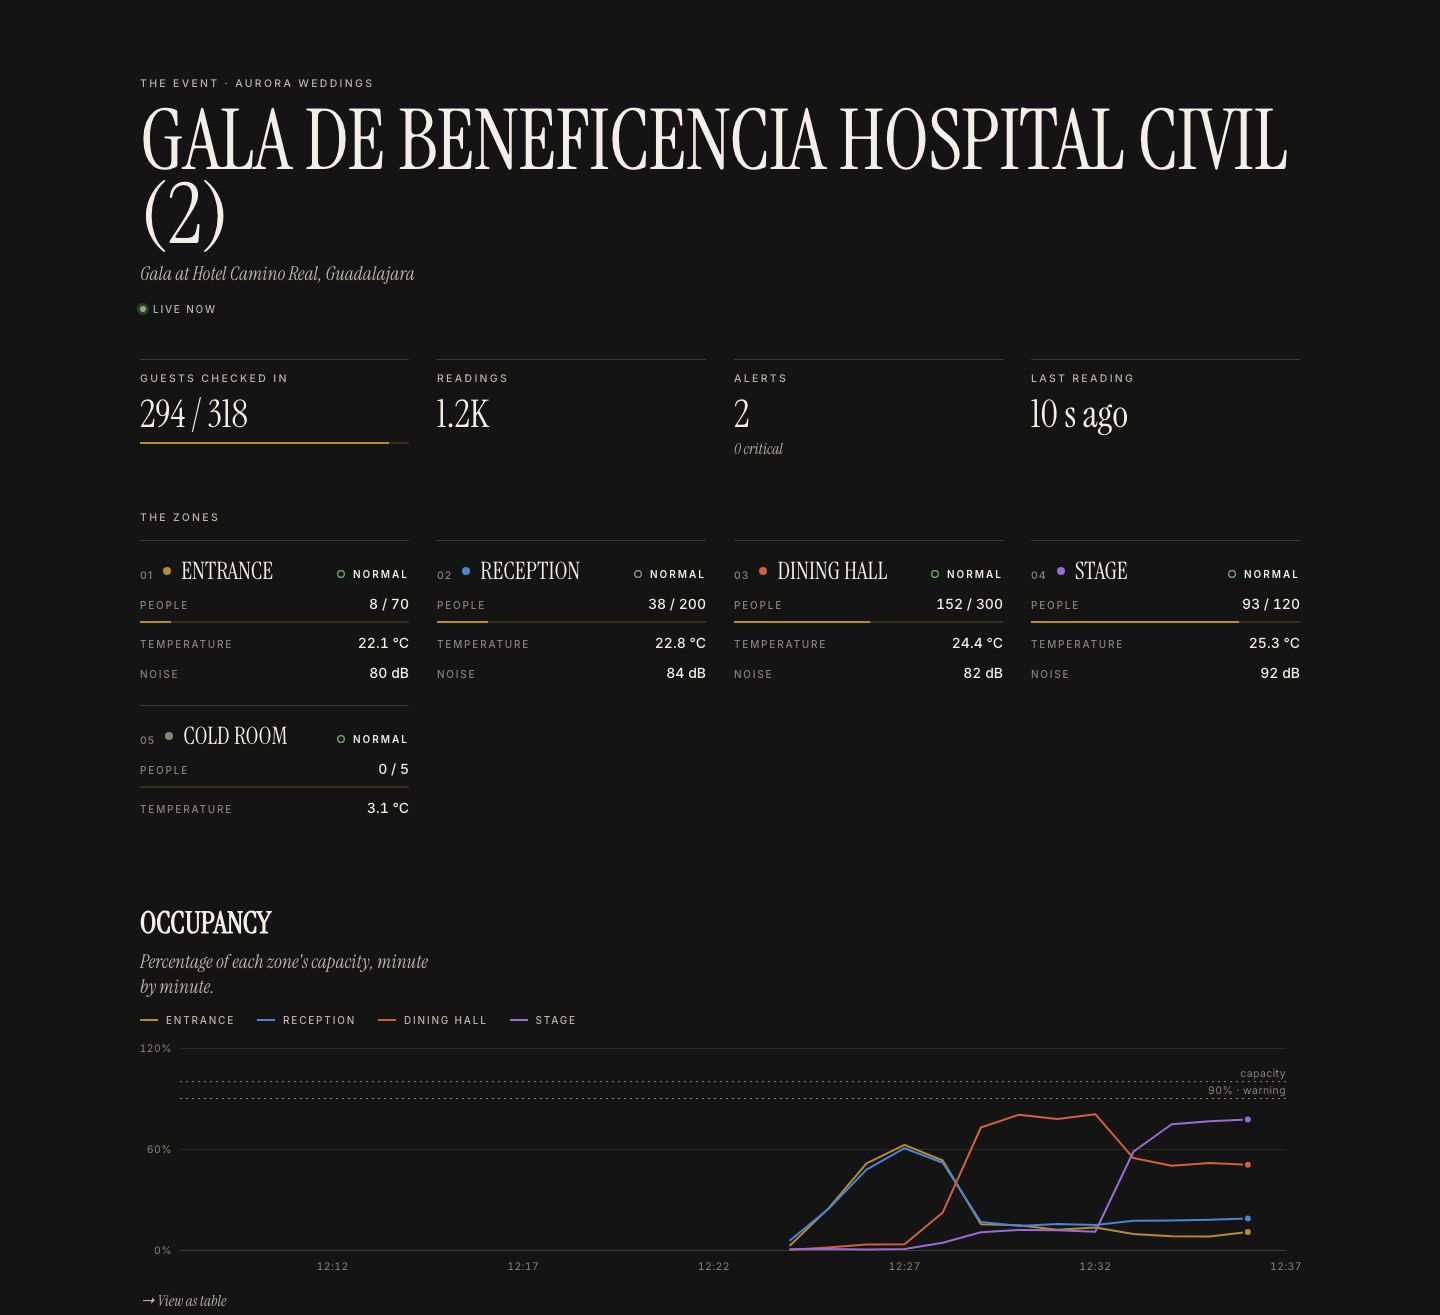
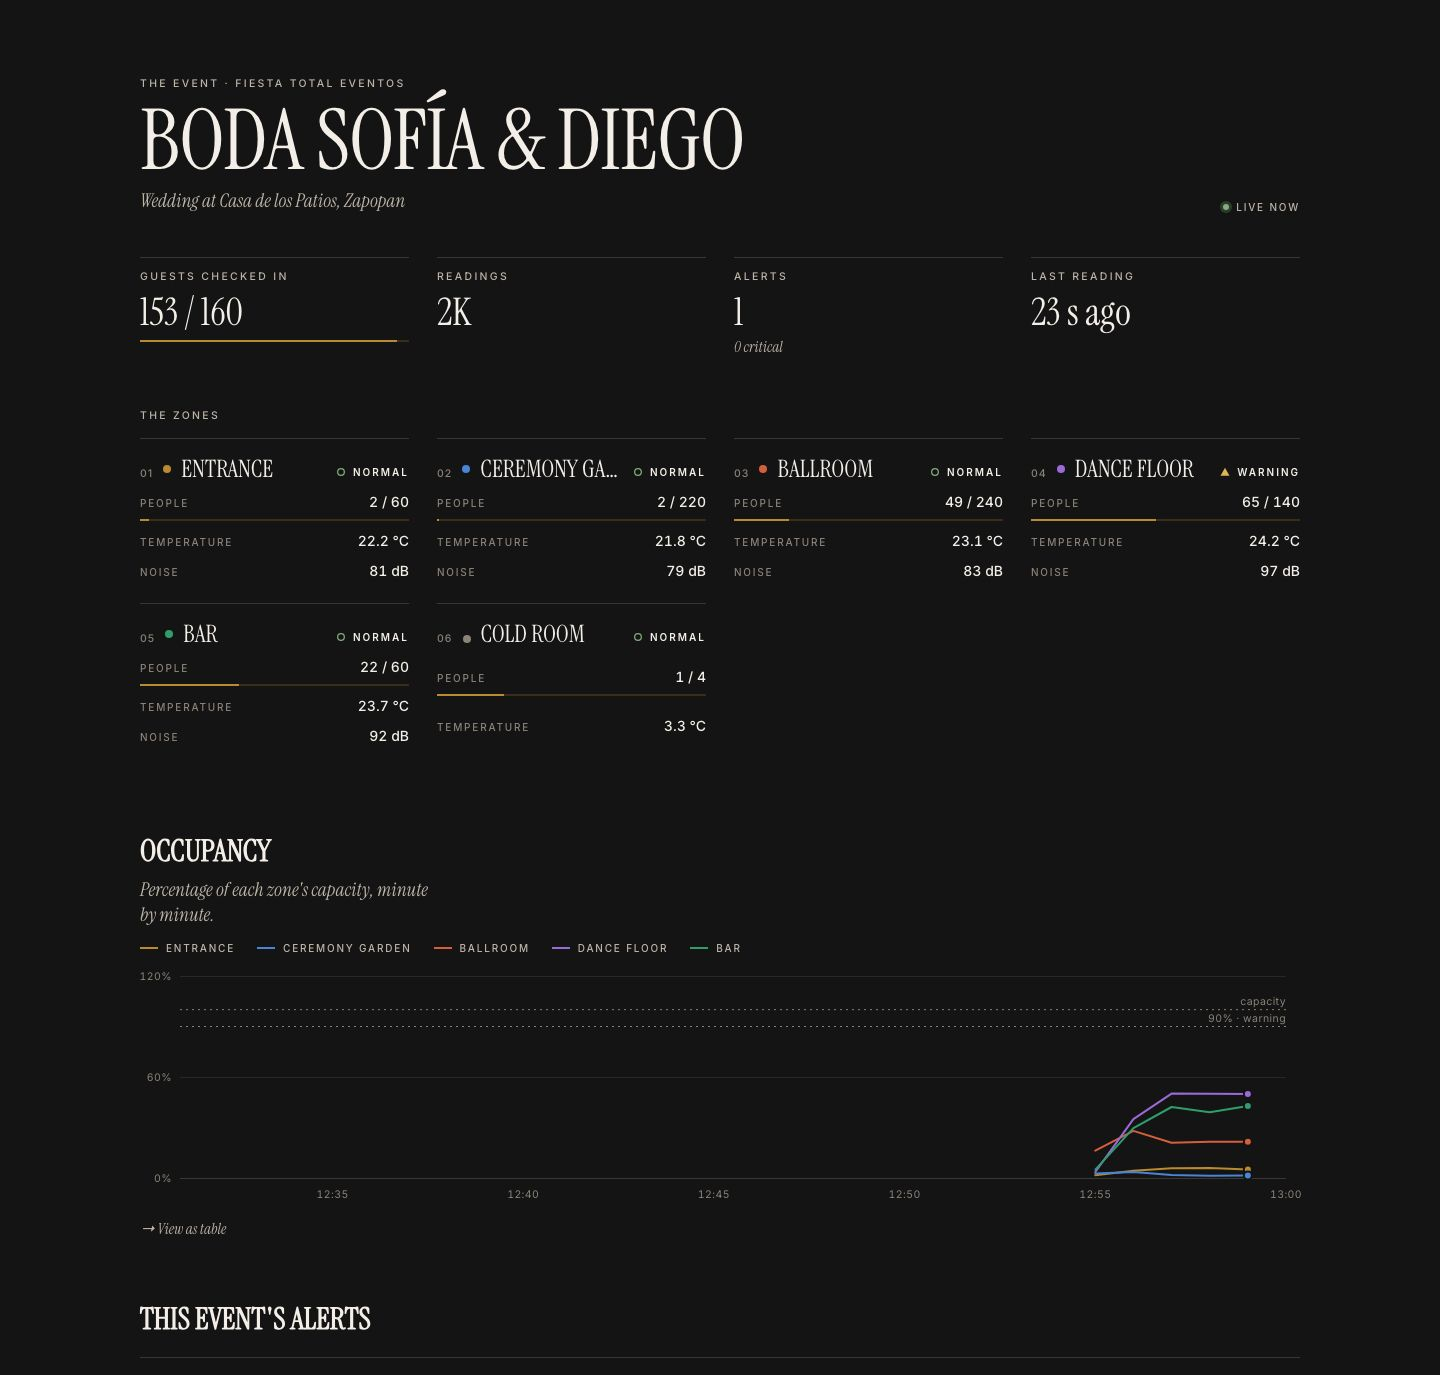
Deploy-verified on AWS Academy: CLI-created stream and bucket, Academy-safe defaults
Deploying to a Learner Lab account showed what the lab policy allows:
- an SCP denies kinesis:IncreaseStreamRetentionPeriod and
  s3:GetBucketObjectLockConfiguration, which the AWS provider calls on every
  stream and bucket; academy_compat (default true) creates both with the AWS
  CLI from terraform_data, idempotently, and deletes them on destroy
- Timestream (and Timestream for InfluxDB) is denied: enable_timestream
  now defaults to false
- Redshift Serverless is denied: redshift_mode defaults to provisioned ra3.large

Also fixes the Grafana 'Last load' stat (epoch ms as BIGINT), adds a terraform
test for a regular account with every store, and puts screenshots of the
deployed web app and Grafana dashboards in the README.

diff --git a/grafana/build_dashboards.py b/grafana/build_dashboards.py
@@ -180,8 +180,9 @@ warehouse_panels = [
     stat("Rows in the warehouse", 6, 0, 6, rs_target("SELECT COUNT(*) AS rows_total FROM telemetry_minute"), RS, unit="short",
          desc="One row per minute, event, zone and metric per load", color=IVORY),
     stat("Events registered", 12, 0, 6, rs_target("SELECT COUNT(*) AS events FROM events"), RS, color=IVORY),
-    stat("Last load", 18, 0, 6, rs_target("SELECT MAX(loaded_at) AS last_load FROM telemetry_minute"), RS, unit="dateTimeFromNow",
-         desc="Loads arrive in micro-batches, every few minutes"),
+    # Stat panels only reduce numbers, so the timestamp goes out as epoch milliseconds.
+    stat("Last load", 18, 0, 6, rs_target("SELECT EXTRACT(EPOCH FROM MAX(loaded_at))::BIGINT * 1000 AS last_load FROM telemetry_minute"), RS,
+         unit="dateTimeFromNow", desc="Loads arrive in micro-batches, every few minutes"),
     panel("timeseries", "Readings per minute by event type", 0, 4, 24, 8,
           [rs_target("""SELECT minute_ts AS time, COALESCE(event_type, 'unregistered') AS event_type, SUM(readings) AS readings
 FROM event_metrics_minute

diff --git a/README.md b/README.md
@@ -4,7 +4,7 @@ Real-time streaming pipeline for **EventOps**, an event-planning SaaS for weddin
 
 - live state in **DynamoDB** (NoSQL), behind a planner-facing web app
 - alerts on an **SNS topic**, buffered in **SQS**, stored by a worker
-- a time series in **Amazon Timestream** and micro-batches in **Amazon Redshift**, behind **Grafana**
+- micro-batches in **Amazon Redshift** (and a time series in **Amazon Timestream** where the account allows it), behind **Grafana**
 - a raw **S3 data lake** queried with **Athena**
 
 > *We built a platform that helps event planners manage the operational complexity of large events, and designed the architecture to scale from a few planners managing small events to thousands of planners managing large events simultaneously.*
@@ -27,11 +27,11 @@ flowchart LR
     Q --> W["λ alert-worker"] --> D
     D --> API["λ dashboard-api<br/>+ API Gateway"] --> UI["Planner web app"]
 
-    K --> TW["λ timeseries-writer"] --> TS[("Timestream")]
-    K --> WL["λ warehouse-loader<br/>5-min micro-batches"] --> RS[("Redshift<br/>Serverless")]
+    K -.-> TW["λ timeseries-writer<br/>(enable_timestream)"] -.-> TS[("Timestream")]
+    K --> WL["λ warehouse-loader<br/>5-min micro-batches"] --> RS[("Redshift")]
     K --> F["Firehose"] --> L[("S3 data lake")] --> A["Athena"]
 
-    TS --> G["Grafana OSS on EC2"]
+    TS -.-> G["Grafana OSS on EC2"]
     RS --> G
     CW["CloudWatch metrics<br/>(incl. custom EMF)"] --> G
     A -.-> G
@@ -42,7 +42,7 @@ flowchart LR
 | Consumer | Batch | Latency | Writes to | Why it is tuned this way |
 |---|---|---|---|---|
 | `stream-processor` | up to 1,000 records / 2 s | seconds | DynamoDB, SNS | Live state and alerts must be fresh. It pre-aggregates the batch so DynamoDB gets one write per (event, zone, minute), not one per reading. |
-| `timeseries-writer` | up to 500 records / 1 s | ~1 s | Timestream | One point per reading, for the live Grafana charts. |
+| `timeseries-writer` (optional) | up to 500 records / 1 s | ~1 s | Timestream | One point per reading, for the live Grafana charts. Only where the account allows Timestream. |
 | `warehouse-loader` | up to 10,000 records / 5 min | minutes | Redshift | A warehouse wants few, large loads. Each load is one idempotent transaction. |
 | Firehose | 5 MB / 60 s | ~1 min | S3 (GZIP JSON lines) | Cheapest place to keep everything raw, for SQL with Athena. |
 
@@ -55,8 +55,8 @@ flowchart LR
 | **DynamoDB** | NoSQL live store: current state per zone, per-minute aggregates, alerts, event metadata. On-demand capacity. |
 | **SNS topic** | Alert fan-out. Message attributes (`severity`, `alert_type`, `planner_id`) drive subscription filter policies. Per-protocol bodies: readable text for email, JSON for the queue. |
 | **SQS** (+ DLQs) | Durable buffer between the topic and the worker. Partial batch failures, a redrive policy after 3 attempts, and a stream DLQ for Kinesis batches that keep failing. |
-| **Timestream** | Time-series store: every reading, for the live Grafana dashboard. |
-| **Redshift Serverless** | Warehouse: per-minute aggregates and an `events` dimension, for history and comparisons in Grafana. |
+| **Redshift** | Warehouse: per-minute aggregates and an `events` dimension, for history and comparisons in Grafana. Provisioned `ra3.large` in Academy, Serverless elsewhere. |
+| **Timestream** (optional) | Time-series store: every reading, for a live Grafana dashboard. AWS Academy denies it (see below). |
 | **Firehose → S3 → Glue → Athena** | Data lake with every raw record, partitioned by hour (partition projection, no crawler). Four saved queries. |
 | **API Gateway + Lambda** | Read-only JSON API and the planner-facing web app. |
 | **Grafana OSS on EC2** | The required dashboard tool. Data sources and dashboards are provisioned at boot, and AWS access comes from the instance profile, so no keys are stored. |
@@ -129,7 +129,7 @@ Every limit is a Terraform variable. The web app colors zones with the same valu
 | 2 shards (2,000 records/s) | raise `kinesis_shard_count`. The partition key spreads events across shards. |
 | 1 Lambda per shard and consumer | raise `processor_parallelization_factor` (up to 10 per shard, ordering kept per event). Use enhanced fan-out consumers past ~5 readers per shard. |
 | DynamoDB on-demand | no capacity planning. The key design keeps each event in its own partition. |
-| Redshift Serverless | scales RPUs with the query load and costs nothing while idle. |
+| Redshift `ra3.large` | add nodes, or switch to Serverless (`redshift_mode`), which scales with the query load and costs nothing while idle. |
 
 Try it: `make burst` sends 1,000 readings/s for 2 minutes. The simulator retries only the throttled records, with exponential backoff, and reports them.
 
@@ -140,7 +140,7 @@ Prerequisites: Terraform ≥ 1.11, AWS CLI v2, Python 3.12+, and AWS Academy Lea
 ```bash
 make whoami      # which account am I about to deploy to?
 make init        # creates/reuses s3://tfstate-<account>-<region> and runs terraform init
-make deploy      # about 5 minutes; Grafana needs ~3 more minutes to install itself
+make deploy      # ~10 minutes (the Redshift cluster is the slow part); Grafana installs itself ~3 minutes later
 make simulate    # 100 readings/s for 5 minutes (RATE=… DURATION=… to change)
 make dashboard   # planner web app
 make grafana     # prints the URL and admin password; anonymous read-only access is on
@@ -174,22 +174,27 @@ To switch accounts:
 
 | Dashboard | Data source | Shows |
 |---|---|---|
-| Live telemetry | Timestream | readings/s, readings per planner, and per event: occupancy, temperature, noise (limits drawn as lines), check-ins, latest reading per zone |
 | Analytics | Redshift | readings by event type, peak occupancy by zone, check-ins vs. guest list, cold-room maxima, loudest zones |
 | Pipeline health | CloudWatch | Kinesis ingestion, iterator age per consumer, delivery to each store, sensor→DynamoDB latency p50/p95, Lambda errors, queues and DLQs |
+| Live telemetry (with `enable_timestream`) | Timestream | readings/s, readings per planner, and per event: occupancy, temperature, noise (limits drawn as lines), check-ins, latest reading per zone |
+
+![Grafana analytics dashboard on Redshift, deployed in AWS Academy](docs/grafana-analytics.jpg)
+
+![Grafana pipeline health dashboard on CloudWatch](docs/grafana-pipeline.jpg)
 
 Athena is provisioned as a Grafana data source too, for ad-hoc SQL on the raw data lake (Explore). Its saved queries are in the Athena console under the `eventops` workgroup.
 
 ## AWS Academy notes
 
-| Constraint | How this repo handles it |
+Deployed and verified in an AWS Academy Learner Lab account on 2026-10-13. The defaults are what works there:
+
+| Constraint (verified) | How this repo handles it |
 |---|---|
-| No IAM role creation | every function, Firehose and EC2 use `LabRole` / `LabInstanceProfile` |
+| No IAM role creation | every function, Firehose and EC2 use `LabRole` / `LabInstanceProfile` (Firehose can assume `LabRole`) |
+| A service control policy denies `kinesis:IncreaseStreamRetentionPeriod` and `s3:GetBucketObjectLockConfiguration`. The Terraform AWS provider calls both on every stream and every bucket. | `academy_compat = true` (default) creates the stream and the data lake bucket with the AWS CLI (`scripts/academy/`), from Terraform, idempotently; destroy deletes them. In a regular account, set it to `false` to use `aws_kinesis_stream` / `aws_s3_bucket`. |
+| The lab policy denies every `timestream:*` action (and explicitly denies Timestream for InfluxDB). AWS also closed LiveAnalytics to new customers on 2025-06-20. | `enable_timestream = false` by default; the writer, table and live dashboard are ready for an account that has access |
+| Redshift Serverless is denied; DC2 nodes are retired | `redshift_mode = "provisioned"` (default) runs a single `ra3.large`; the Data API works with temporary credentials |
 | Amazon Managed Grafana needs IAM Identity Center | Grafana OSS on a `t3.small`, with an Elastic IP and port 3000 open only to your IP |
-| Timestream for LiveAnalytics closed to **new** AWS customers on 2025-06-20 | `enable_timestream = false` if the account is rejected; the other dashboards keep working |
-| Redshift DC2 nodes are retired | Serverless by default; `redshift_mode = "provisioned"` uses `ra3.large`; `off` removes it |
-| Firehose must be able to assume `LabRole` | `archive_mode = "lambda"` makes the processor write the same S3 layout itself |
-| Low Lambda concurrency quotas on new accounts | no reserved concurrency; the SQS consumer is capped at 2 |
 
 ## Test without an AWS account
 
@@ -203,7 +208,11 @@ make local-demo  # the whole pipeline on your laptop, web app on http://localhos
   - the Timestream writer
   - the SQL the Redshift loader generates
   - the invalid-record, cooldown and idempotency paths
-- `terraform test` plans the stack in every mode (all stores on, optional stores off, provisioned Redshift with the Lambda archive) and checks the switches.
+- `terraform test` plans the stack in every mode and checks the switches:
+  - Academy defaults
+  - optional stores off
+  - archive written by the Lambda
+  - a regular account with every store, including Timestream and Serverless
 
 ## Cost and cleanup
 
@@ -213,11 +222,11 @@ Approximate us-east-1 prices. Check the AWS pricing pages before relying on them
 |---|---|
 | Kinesis, 2 shards | ~$0.03/hour |
 | Grafana EC2 `t3.small` + Elastic IP | ~$0.03/hour |
-| Redshift Serverless, 8 RPU | ~$3/hour **only while queries run** (60 s minimum each). With 5-minute loads that is up to ~$1.20/hour while data flows. |
-| Redshift provisioned `ra3.large` | ~$0.54/hour, always |
+| Redshift provisioned `ra3.large` (default) | ~$0.54/hour, **always, even when idle** |
+| Redshift Serverless, 8 RPU (outside Academy) | ~$3/hour only while queries run (60 s minimum each); up to ~$1.20/hour while 5-minute loads flow |
 | Lambda, DynamoDB, SNS, SQS, Timestream, Firehose, S3, Athena | cents at lab volumes |
 
-Learner Lab stops EC2 instances when the session ends, but **not** Kinesis or Redshift. When you finish, run `make destroy`. Between sessions, at least run `terraform apply -var redshift_mode=off`.
+Learner Lab stops EC2 instances when the session ends, but **not** Kinesis or Redshift. When you finish, run `make destroy`. Between sessions, at least run `terraform apply -var redshift_mode=off` (about $13/day saved).
 
 ## Repository layout
 
